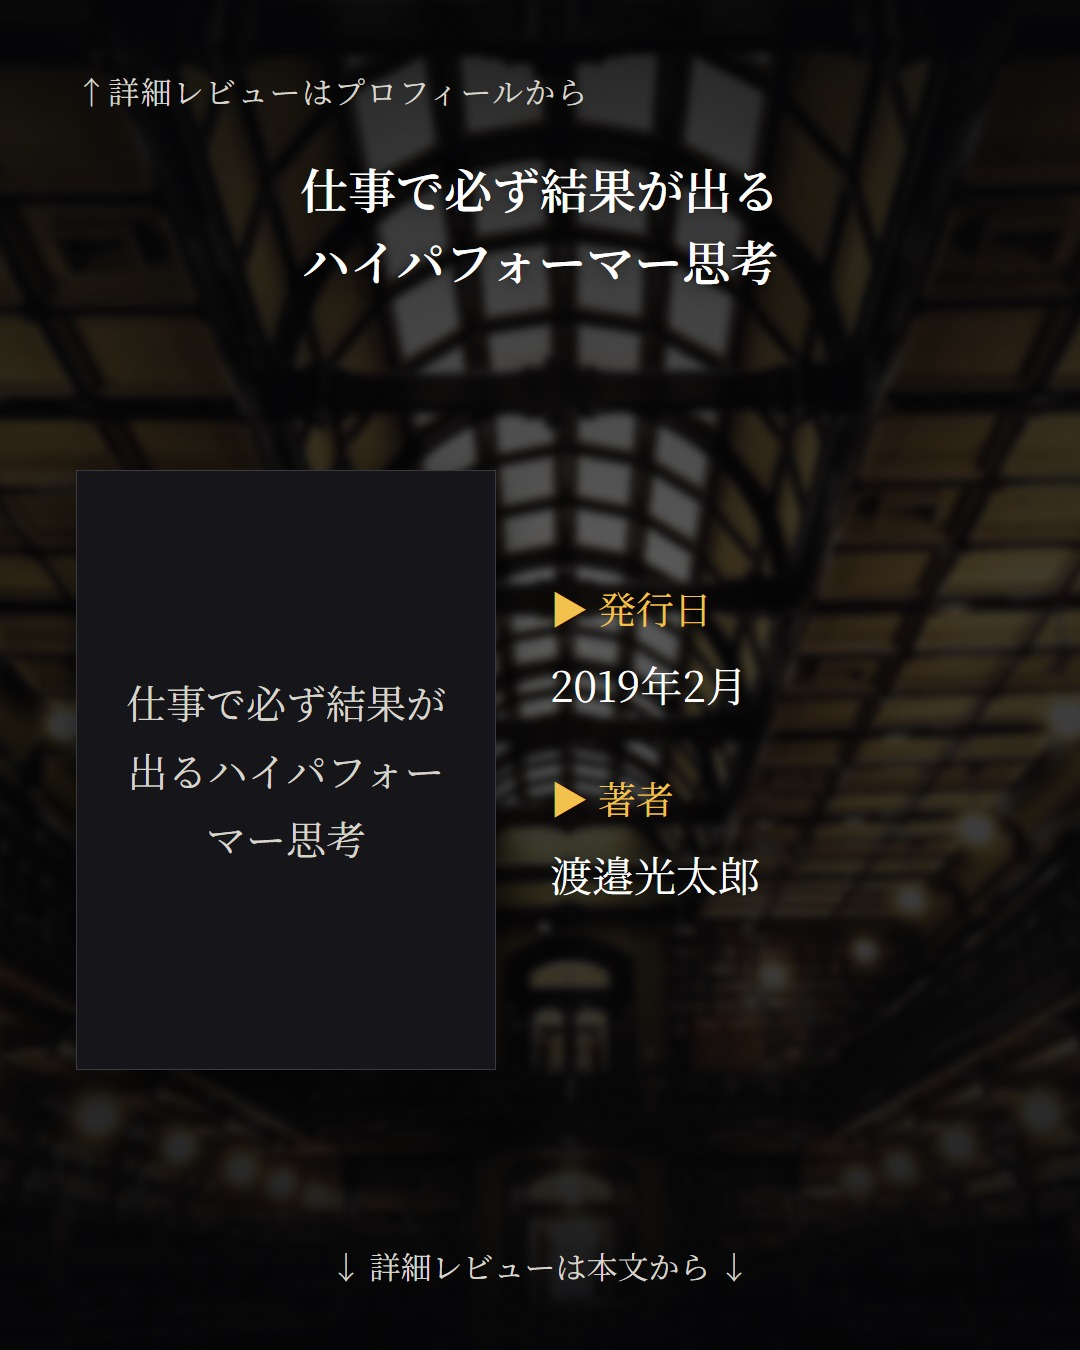
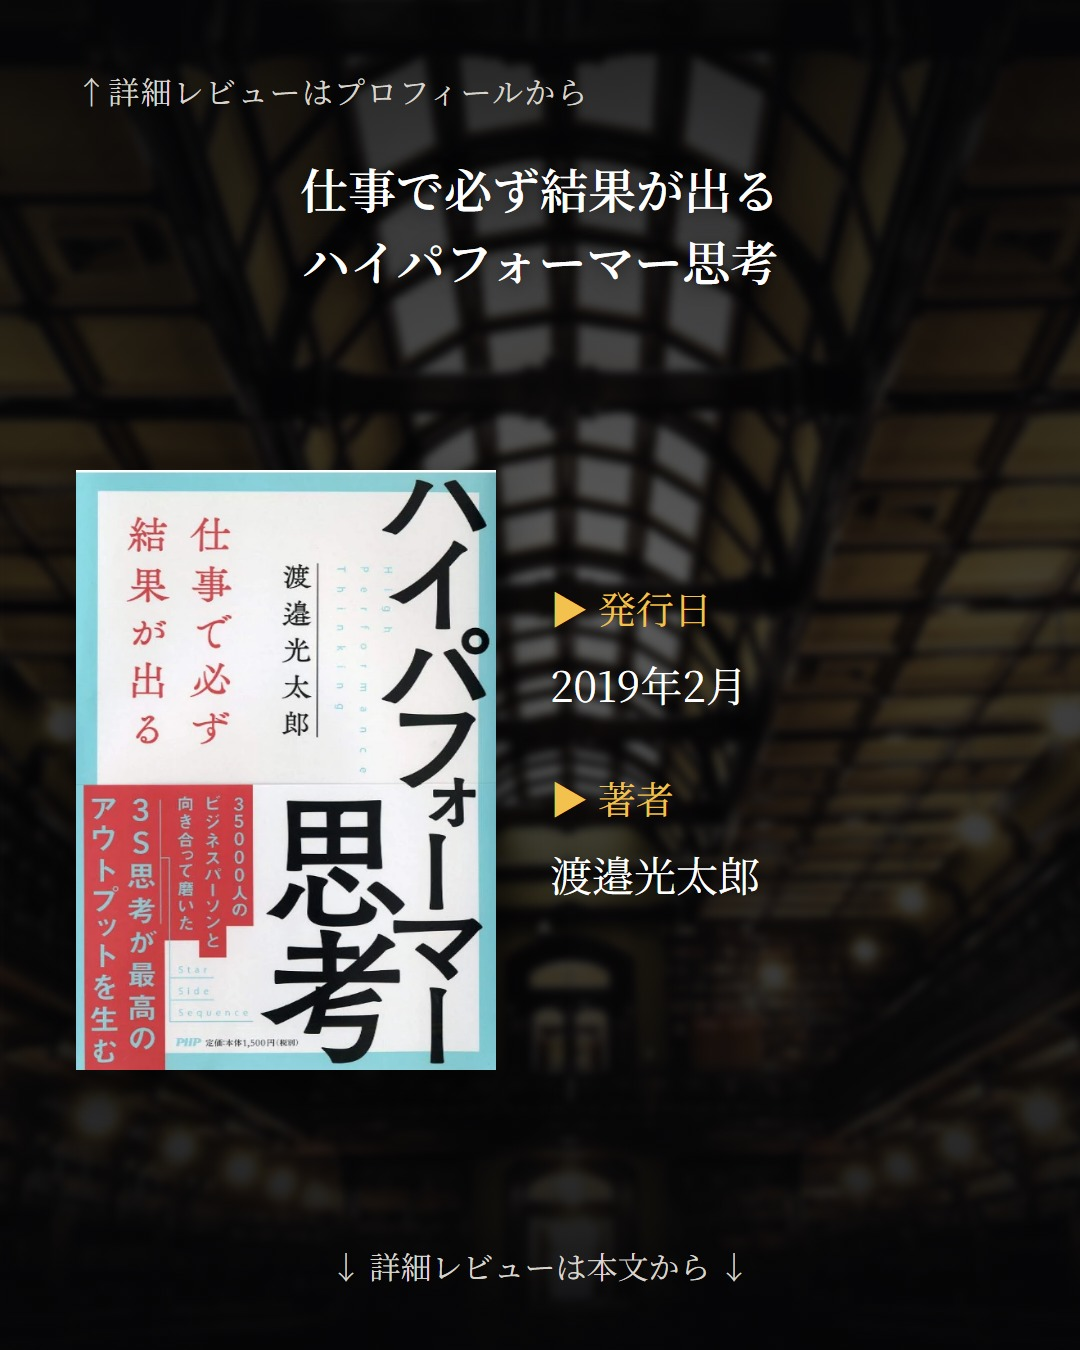
書影3冊を手持ちの画像で補う
楽天にも openBD にも無かった5冊のうち3冊。books/covers に ISBN 名で置いた。
  9784569841939  仕事で必ず結果が出るハイパフォーマー思考
  9784062167826  ハーバード流 企画実現力
  9784815602505  ティム・クック

作業用の Image strage/ は追跡から外した。

Changed region(s): [[0.0611, 0.3422, 0.4583, 0.8089]]

diff --git a/docs/preview/2026-W40.html b/docs/preview/2026-W40.html
@@ -62,6 +62,44 @@ a { color: #F5B94A; }
 
     <section class="day">
       <div class="day-head">
+        <span class="date">10/03 (Sat)</span>
+        <span class="badge">ティム・クック</span>
+        <span class="book">リーアンダー・ケイニー（堤沙織訳）</span>
+      </div>
+      <div class="cards"><img src="../img/2026-10-03/01.jpg" alt="card 1" loading="lazy"><img src="../img/2026-10-03/02.jpg" alt="card 2" loading="lazy"><img src="../img/2026-10-03/03.jpg" alt="card 3" loading="lazy"><img src="../img/2026-10-03/04.jpg" alt="card 4" loading="lazy"><img src="../img/2026-10-03/05.jpg" alt="card 5" loading="lazy"><img src="../img/2026-10-03/06.jpg" alt="card 6" loading="lazy"><img src="../img/2026-10-03/07.jpg" alt="card 7" loading="lazy"><img src="../img/2026-10-03/08.jpg" alt="card 8" loading="lazy"><img src="../img/2026-10-03/09.jpg" alt="card 9" loading="lazy"><img src="../img/2026-10-03/10.jpg" alt="card 10" loading="lazy"></div>
+      <h3>カードの文言</h3>
+      <ul class="grounding"><li>1 表紙: ジョブズとは違う
+現場主義の経営者
+ティム・クック</li><li>2 書誌情報: 2019年9月 / リーアンダー・ケイニー（堤沙織訳）</li><li>3 おすすめ1: カリスマ型とは違う
+リーダー像を知りたい方</li><li>3 おすすめ2: 在庫や現場のオペレーション
+改善に関わっている方</li><li>3 おすすめ3: 成果主義の厳しさを
+具体例で知りたい方</li><li>4 問いかけ: 天才の後を継ぐ人に
+必要な力とは
+何だったのか</li><li>5 本文: ジョブズとは異なり
+クックは現場主義者</li><li>6 本文: 現場オペレーション改善に長く従事し
+JITの考え方に精通</li><li>7 本文: 社長就任後7ヶ月で
+在庫の保管日数を30日から6日へ</li><li>8 本文: 目標達成にシビアで容赦ない
+責任は仕組みでなく人にあるという姿勢</li><li>9 まとめ: 派手さではなく
+オペレーションで
+アップルを支えた人の記録</li></ul>
+      <h3>キャプション</h3>
+      <pre class="caption">今回は経営者の評伝です。3年ほど前に立ち読みで半分まで読んで放置していた一冊を、図書館で借りて最後まで読み切りました。
+
+面白かったのは、ティム・クックがジョブズとはまったく違うタイプだという点です。彼は現場主義者で、現場オペレーションの改善に長く従事してきた人物。JITの考え方に精通していて、社長就任後わずか7ヶ月で在庫の保管日数を30日から6日間まで短縮しています。数字の落とし方が具体的で、読んでいて背筋が伸びました。
+
+もうひとつ印象に残ったのは、目標達成に対するシビアさです。韓国のギャラクシーに売上げで負けた際は就任17ヶ月で韓国のVPを更迭、アップルストア担当副社長は半年で解雇。責任は仕組みではなく人にあるものだと位置付けている、外資らしい容赦のなさが伝わってきます。
+
+一方で、世界一のEMSであるフォックスコンの労働環境の劣悪さや賃金の安さ、マネキンをバットで殴る施設があるという記述もあり、そこも含めて記録として読む価値がありました。
+
+カリスマの後を継いだ人が何で戦ったのか。気になる方はぜひ。</pre>
+      <h3>書籍固有ハッシュタグ</h3>
+      <div class="tags"><span class="tag">#ティムクック</span><span class="tag">#リーアンダーケイニー</span><span class="tag">#アップル</span><span class="tag">#経営者の本</span><span class="tag">#ビジネス書記録</span></div>
+      <h3>根拠メモ (grounding)</h3>
+      <ul class="grounding"><li>書名・著者・出版社・出版日：書誌情報</li><li>cover／points1・2：読書メモ「ジョブズとは異なり、現場主義者。現場OPの改善に長く従事（JITの考え方に精通）」</li><li>points3：読書メモ「7ヶ月で在庫の保管日数は30日から6日間までに短縮」</li><li>points4：読書メモ「目標達成にシビア」「責任は仕組みでなく人にあるものだと位置付け」</li><li>キャプションの更迭・解雇の記述：読書メモ「就任17ヶ月で韓国VPを更迭、アップルストア担当副社長を半年で解雇」</li><li>キャプションのフォックスコン記述：読書メモ「世界#1のEMSだが労働環境劣悪、賃金激安。マネキンをバットで殴る施設がある」</li><li>キャプション冒頭の再読経緯：読書メモ「3年前くらいに立ち読みして半分くらい読んだまま放置していたので、図書館で借りて再読了」</li><li>question・recommend・summaryの表現：読書メモの内容から構成した要約（直接の引用ではない）</li><li>「天才」の語：正式書名の副題に基づく</li></ul>
+    </section>
+    
+    <section class="day">
+      <div class="day-head">
         <span class="date">10/04 (Sun)</span>
         <span class="badge">先読み！IT×ビジネス講座 ChatGPT</span>
         <span class="book">古川渉一、酒井麻里子</span>
@@ -441,46 +479,6 @@ HMDが非常に重いこと。
       <div class="tags"><span class="tag">#メタバースビジネス革命</span><span class="tag">#西田宗千佳</span><span class="tag">#メタバース</span><span class="tag">#VR</span><span class="tag">#ビジネス書</span></div>
       <h3>根拠メモ (grounding)</h3>
       <ul class="grounding"><li>表紙・問いかけ：読書メモ「普及の一番のハードルはHMDが非常に重たい事」＋内容紹介「なぜ今メタバースが騒がれているのか」</li><li>points1：内容紹介「唐突に現れたわけではなく、何十年も追い求められてきたもの」</li><li>points2：読書メモのHMDの重さに関する記述</li><li>points3：読書メモ「oVice等はメタバースの足元現実解」「個人的にはあまりメリットは感じづらい」</li><li>points4：読書メモ「現代版 精神と時の部屋『Immersed』」「ゴーグル付けたまんま仕事するなんてとても想像できない」</li><li>summary：目次構成 Part1現状／Part2拡散／Part3・4課題／Part5未来、および内容紹介の「多くの企業の事例を挙げながら」</li><li>recommend：内容紹介の3つの問い（なぜ騒がれているか／何ができるか／これからどうなるか）に基づく</li><li>キャプション末尾の問いかけ：読書メモの所感を踏まえた読者への呼びかけ（一般論）</li></ul>
-    </section>
-    
-    <section class="day">
-      <div class="day-head">
-        <span class="date">10/17 (Sat)</span>
-        <span class="badge">LTVの罠</span>
-        <span class="book">垣内勇威</span>
-      </div>
-      <div class="cards"><img src="../img/2026-10-17/01.jpg" alt="card 1" loading="lazy"><img src="../img/2026-10-17/02.jpg" alt="card 2" loading="lazy"><img src="../img/2026-10-17/03.jpg" alt="card 3" loading="lazy"><img src="../img/2026-10-17/04.jpg" alt="card 4" loading="lazy"><img src="../img/2026-10-17/05.jpg" alt="card 5" loading="lazy"><img src="../img/2026-10-17/06.jpg" alt="card 6" loading="lazy"><img src="../img/2026-10-17/07.jpg" alt="card 7" loading="lazy"><img src="../img/2026-10-17/08.jpg" alt="card 8" loading="lazy"><img src="../img/2026-10-17/09.jpg" alt="card 9" loading="lazy"><img src="../img/2026-10-17/10.jpg" alt="card 10" loading="lazy"></div>
-      <h3>カードの文言</h3>
-      <ul class="grounding"><li>1 表紙: 顧客を囲い込むほど
-顧客は離れていく
-LTVの本当の意味</li><li>2 書誌情報: 2023年7月21日 / 垣内勇威</li><li>3 おすすめ1: 既存顧客との関係を
-長く続けたい方</li><li>3 おすすめ2: 会員プログラムの効果に
-手応えを感じない方</li><li>3 おすすめ3: 顧客視点で施策を
-組み直したい方</li><li>4 問いかけ: ゴールド会員と言われて
-あなたは本当に
-うれしいでしょうか</li><li>5 本文: LTVは企業から見た利益額ではなく
-顧客が受け取る価値の総量</li><li>6 本文: 顧客が逃げる4つの壁
-Meet Attract Sense Trade
-頭文字でMAST</li><li>7 本文: IKEAのレストランは利益が出ない
-それでも接点として
-思い出してもらえればいい</li><li>8 本文: 面白い発見も売上増や
-コスト削減につながらなければ意味がない</li><li>9 まとめ: 囲い込みをやめて
-顧客の側から価値を数える
-LTVの実践書</li></ul>
-      <h3>キャプション</h3>
-      <pre class="caption">今回はマーケティングの本です。「LTVの罠」、本屋で購入しました。2200円…と手が止まりましたが、読んでよかったです。
-
-この本がまず突きつけてくるのは、LTVを「一人の顧客が一生涯に生み出してくれる利益合計額」と捉える企業視点そのものが罠だ、という指摘。顧客から見れば、LTVは「一生涯に企業が提供してくれる価値の総量」なんですよね。視点がひっくり返る感覚がありました。
-
-面白かったのが、顧客が逃げる4つのボトルネック「MAST」。Meetは認識してもらうまでの障壁で、IKEAのレストランは利益が出なくても、いつか家具を買うときに思い出してもらえればいい、という話。Attractは商品の魅力で、ホテルのアプリを使い続けてもらうにはどんな機能が必要か。Senseは接点がなくて顧客の状況が把握できないこと。三河屋のサブちゃんは達人だなと思いました。Tradeは遠慮のしすぎ。
-
-もう一つ刺さったのが、面白い発見があってもそれが売り上げ増加やコスト削減につながらなければ意味がない、という一文。ブランディングを高めることとLTVを高めることはつながっている。企業のこだわりは世間のこだわりではない、というのも忘れないでおきたいところです。
-
-自社の「囲い込み」、顧客から見たらどう映っているでしょうか。</pre>
-      <h3>書籍固有ハッシュタグ</h3>
-      <div class="tags"><span class="tag">#LTVの罠</span><span class="tag">#垣内勇威</span><span class="tag">#マーケティング</span><span class="tag">#ビジネス書</span><span class="tag">#顧客体験</span><span class="tag">#読書記録</span></div>
-      <h3>根拠メモ (grounding)</h3>
-      <ul class="grounding"><li>書名・著者・出版社・出版日：書誌情報より</li><li>cover「顧客を囲い込むほど顧客は離れていく」：内容紹介の「囲い込み」批判とボトルネックで顧客が逃げ出すという記述を要約（表現は編集）</li><li>recommend 3項目：内容紹介の「マーケティングや営業、顧客サービス部門の担当者」「既存顧客に着目」「顧客視点」より</li><li>question「ゴールド会員と言われてうれしいか」：内容紹介の『自分が特に好きでもない企業から「あなたはゴールド会員です」と言われても、うれしいはずなどない』より</li><li>points1：内容紹介の「一人の顧客が一生涯に生み出してくれる利益合計額」＝企業視点の罠／顧客視点では「一生涯に企業が提供してくれる価値の総量」より</li><li>points2：読書メモのMAST（Meet/Attract/Sense/Trade）および内容紹介の「4つのボトルネック＝MAST」より</li><li>points3：読書メモの「IKEAのレストランは利益がでないでも顧客との接点でいつか家具を買ってもらうときに思い出してもらえれば良い」より</li><li>points4：読書メモの「面白い発見があったとしてもそれが売り上げ増加やコスト削減につながらなければ意味がない」より</li><li>summary「LTVの実践書」：内容紹介の「LTV向上の実践書」より</li><li>caption内のホテルのアプリ・三河屋のサブちゃん・Trade＝遠慮のしすぎ・結婚式業界のくだりに関連する「企業のこだわりは世間のこだわりではない」：すべて読書メモより</li><li>caption内「2200円…と手が止まりました」：読書メモ「本屋で購入（2200円…）」に基づく所感の言い換え</li><li>3万7000サイト・4000人インタビューなどの数値は今回のカードでは未使用（内容紹介にはあり）</li></ul>
     </section>
     
 </div></body></html>
